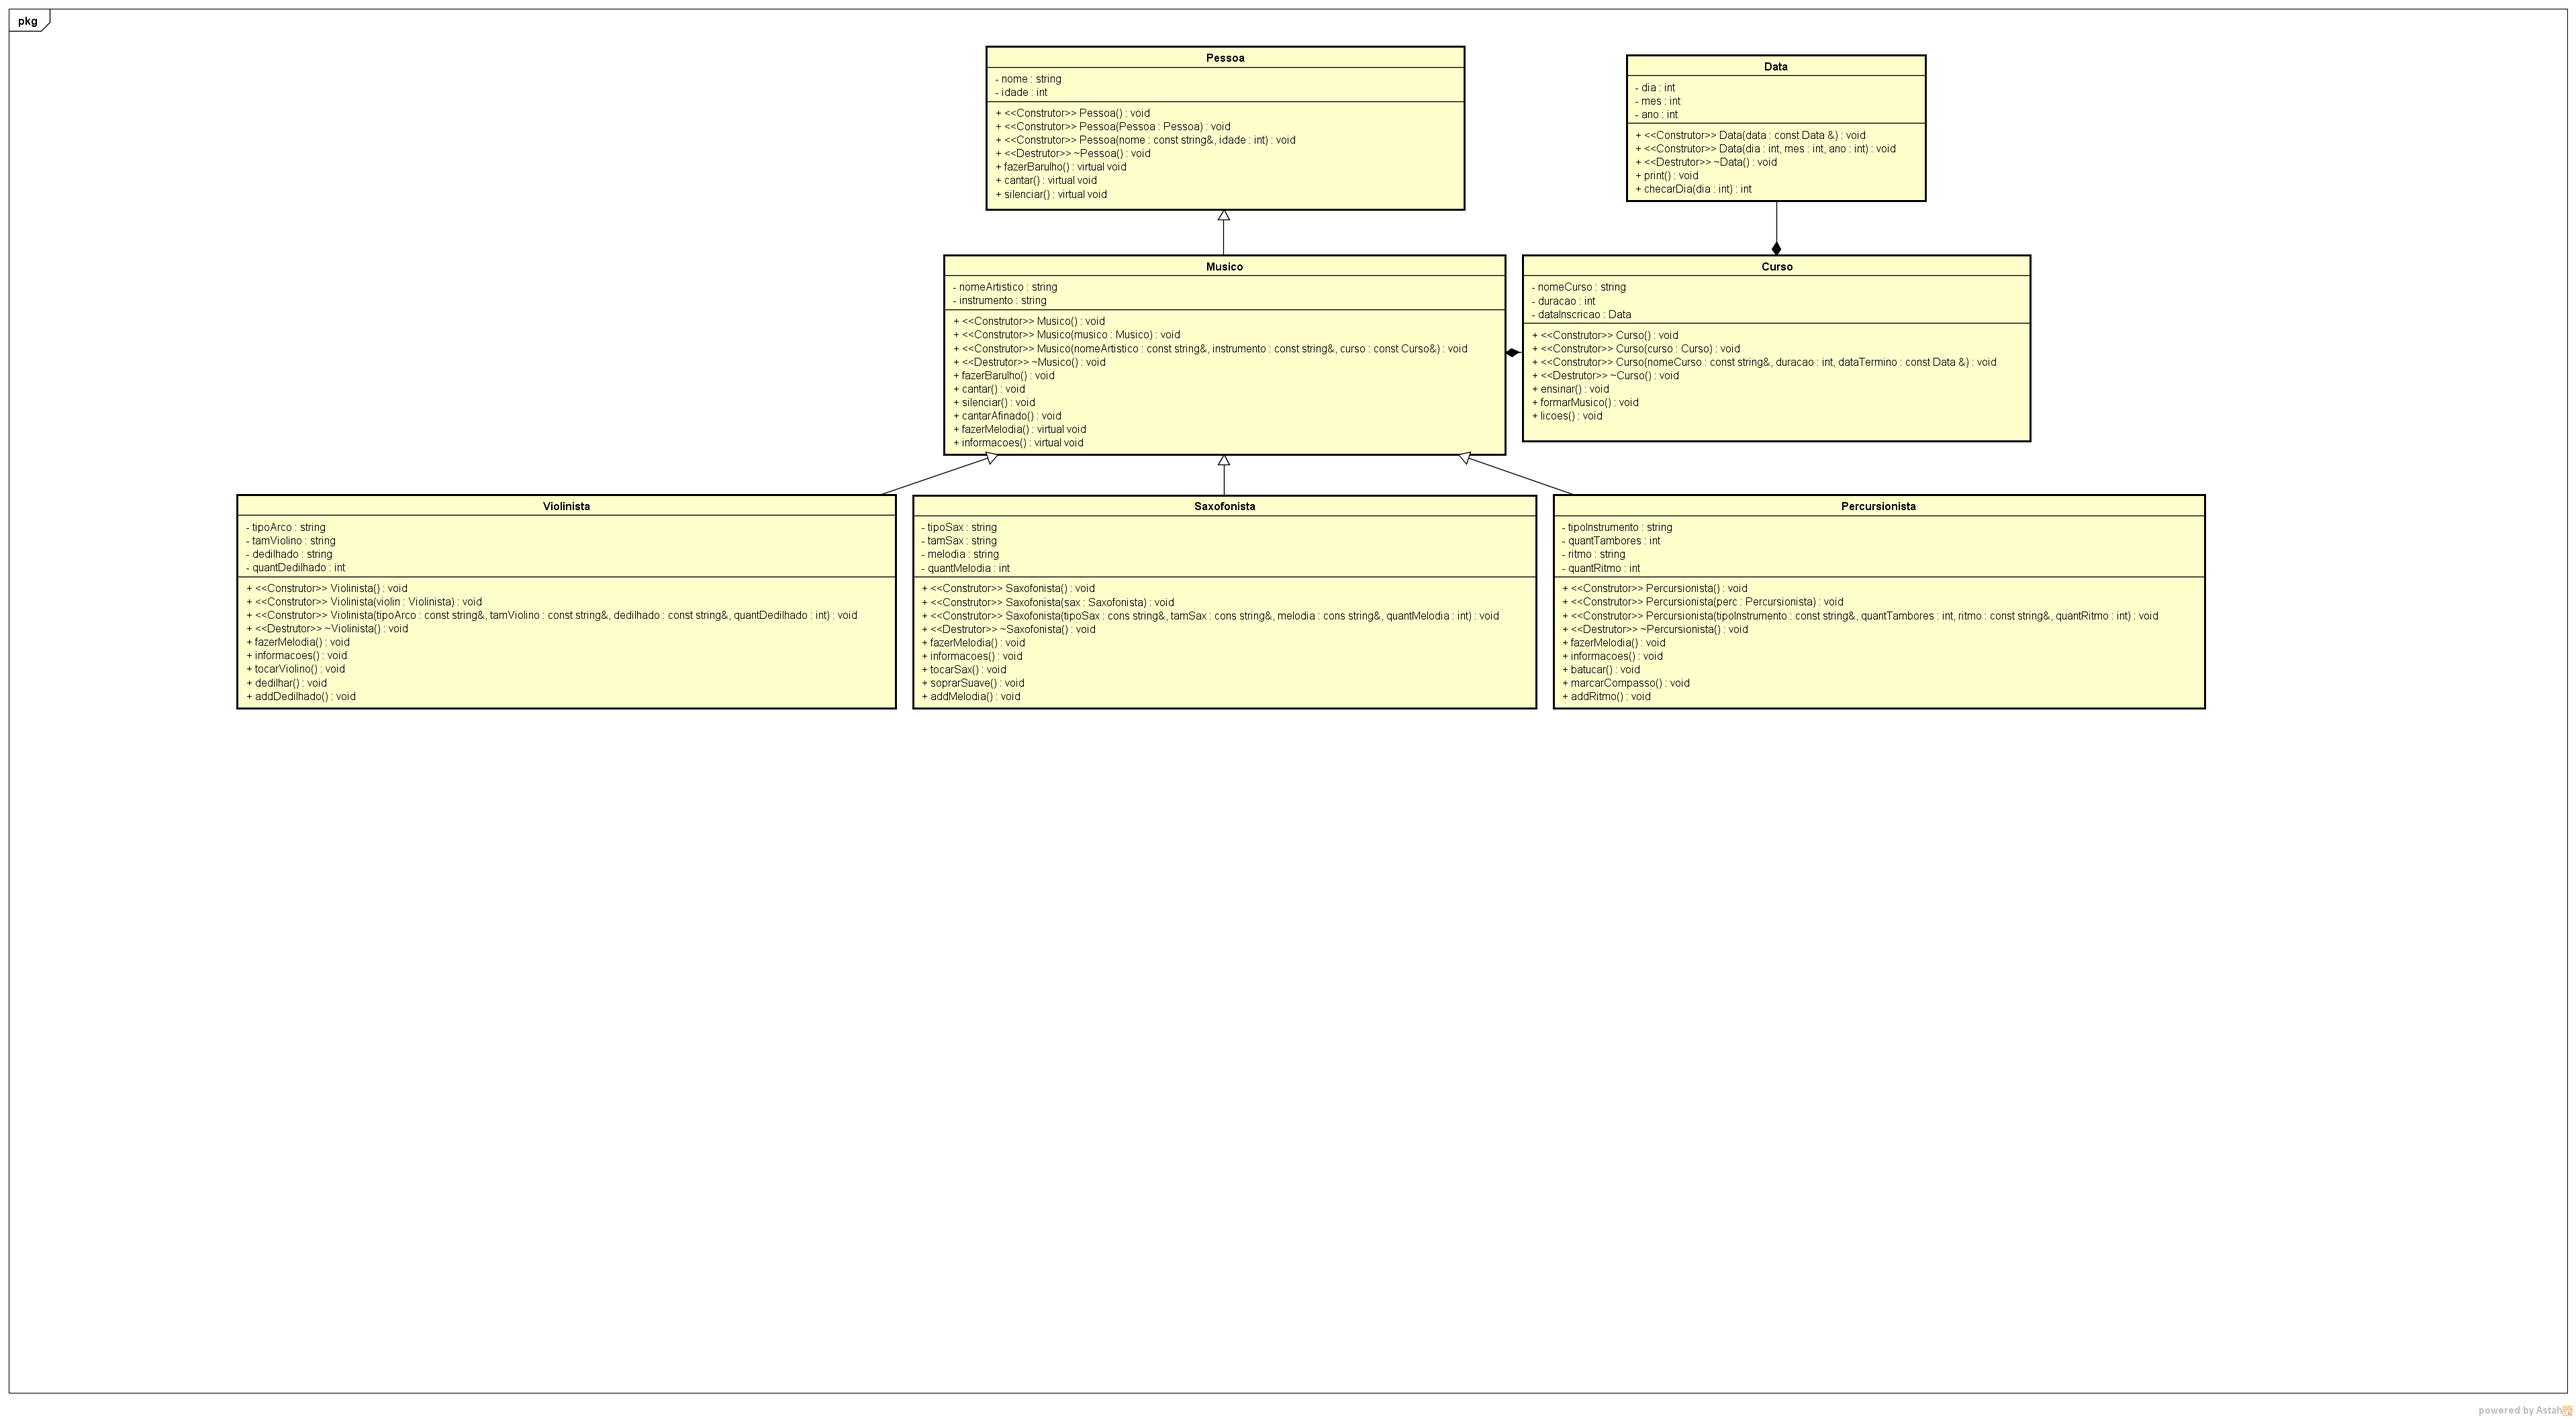
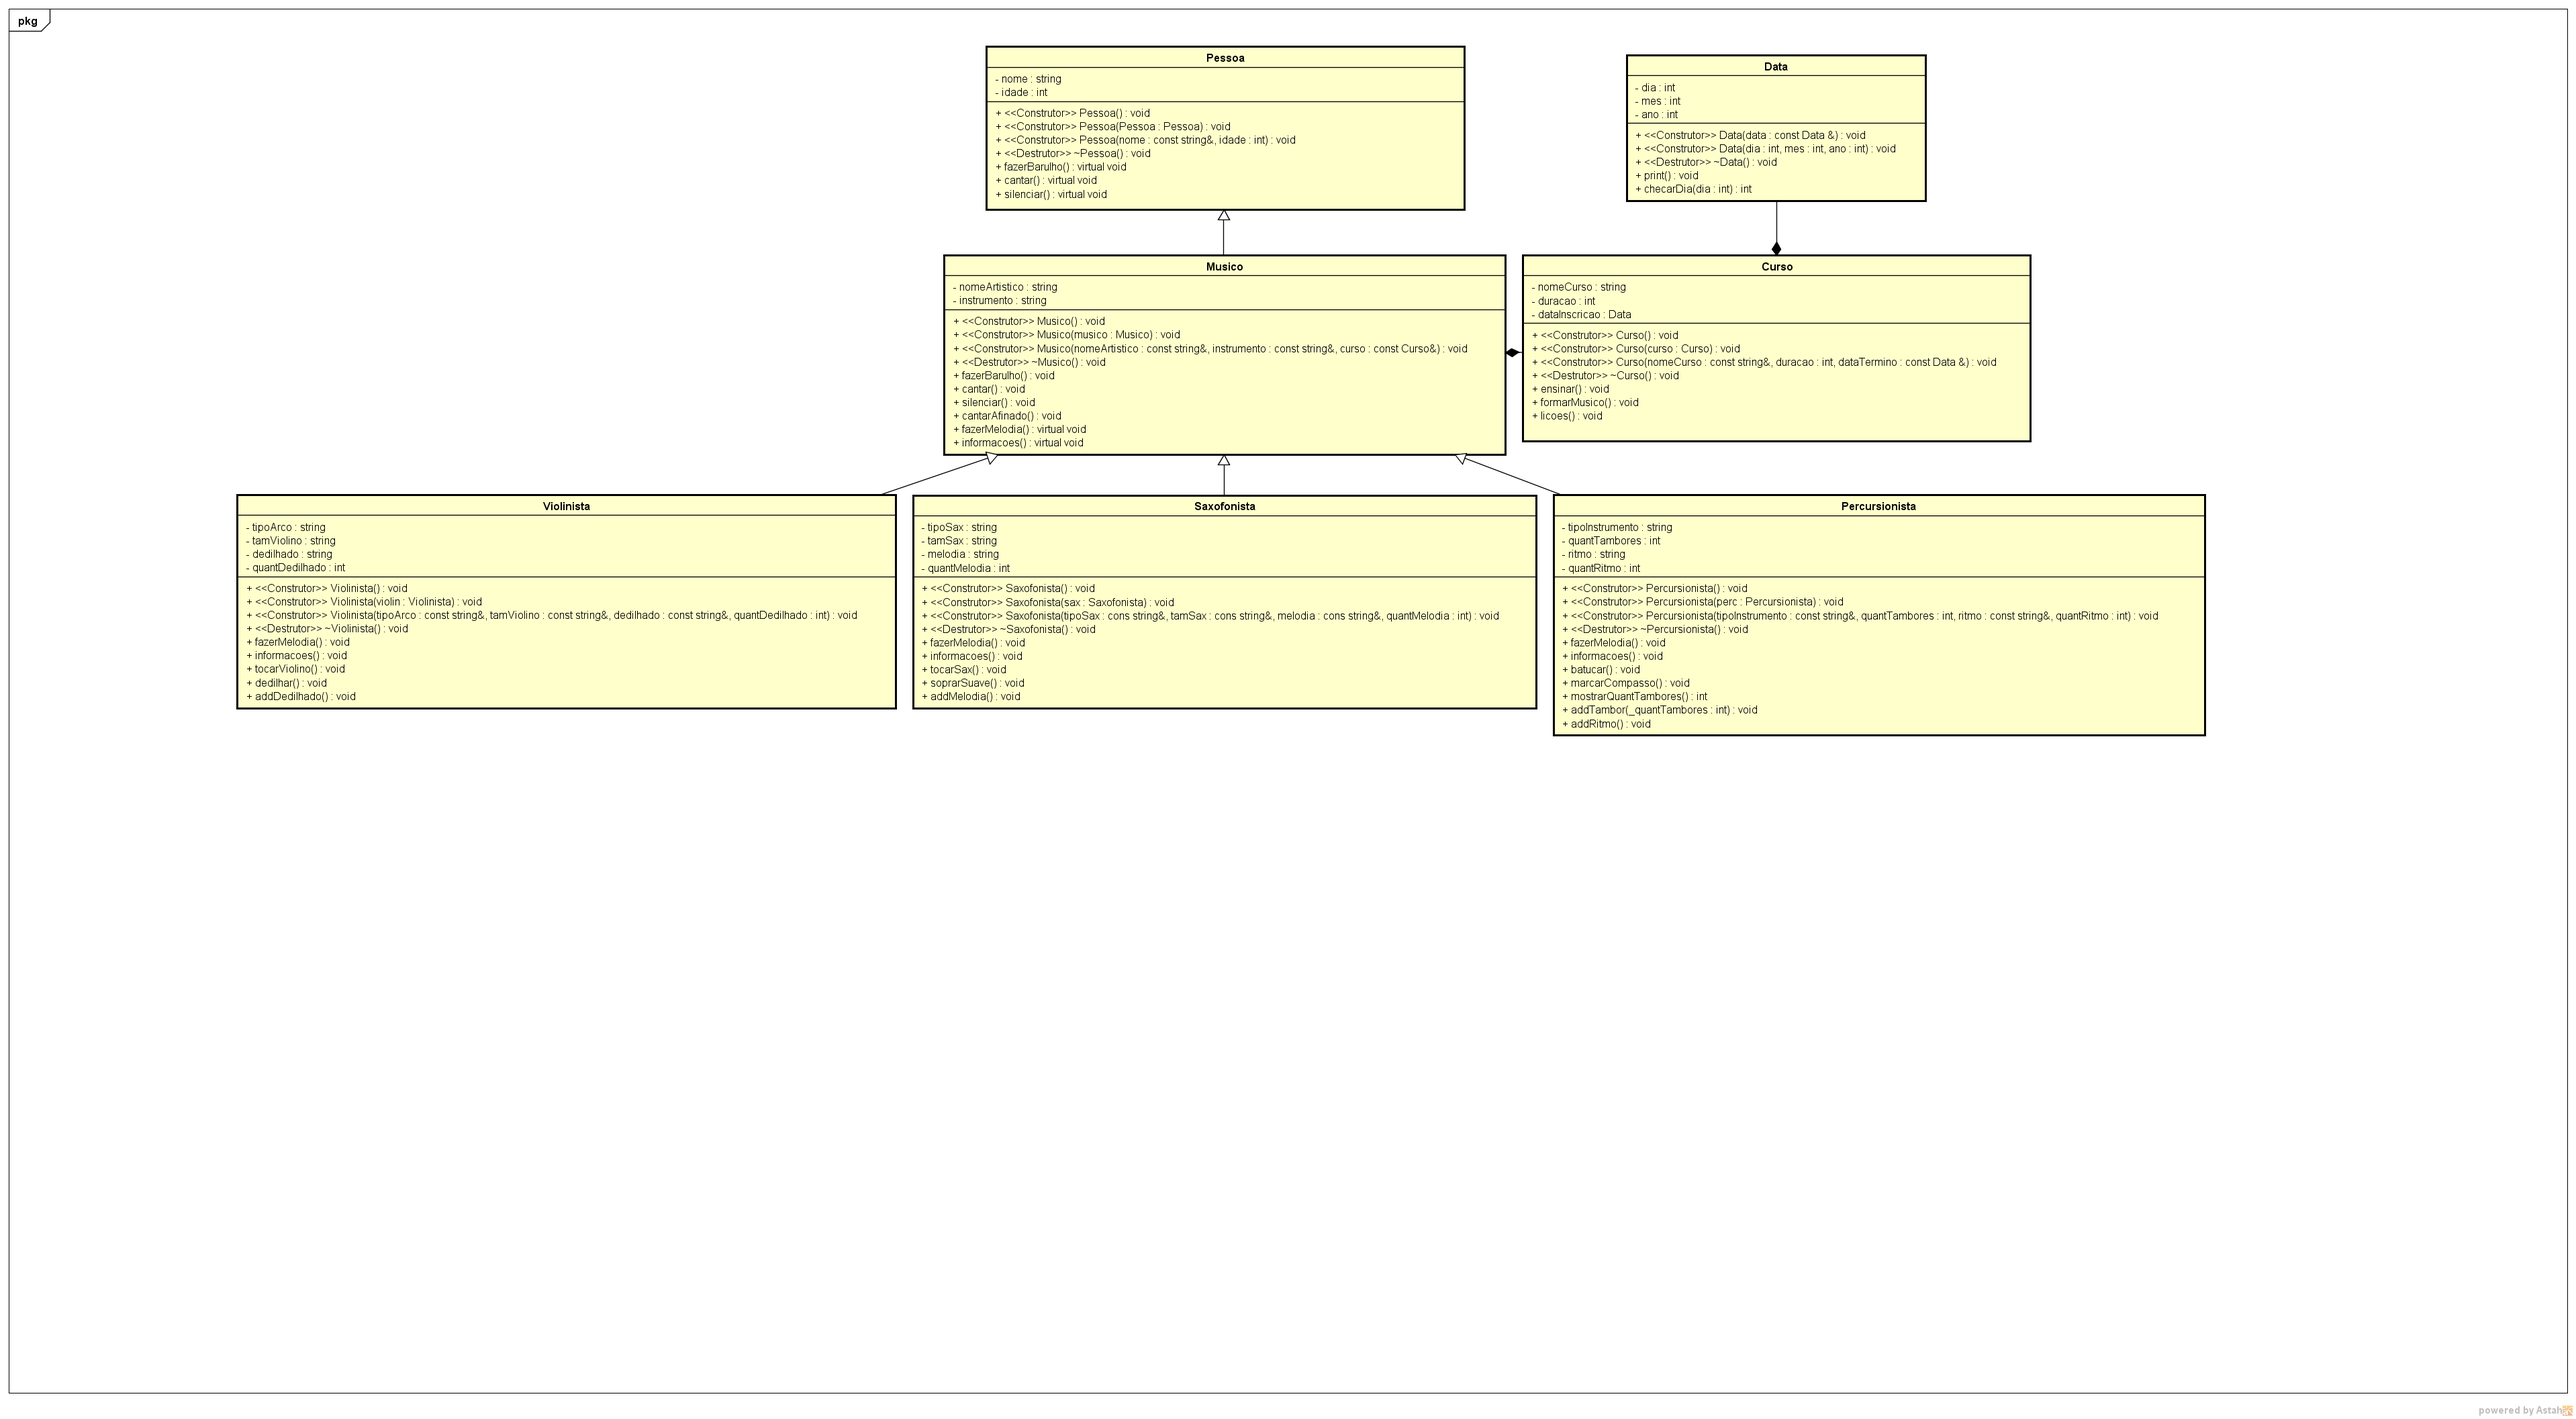
21/03 - 12:49.

Changed region(s): [[0.5893, 0.4683, 0.8684, 0.5307]]

diff --git a/Musico/main.cpp b/Musico/main.cpp
@@ -41,14 +41,14 @@ int main(int argc, char **argv){
 	
 	for (size_t i = 0; i < musicos.size(); i++){
 		
-	/*	Moto *derivedPtr = dynamic_cast<Moto*> (musicos[i]);
+		Percursionista *derivedPtr = dynamic_cast<Percursionista*> (musicos[i]);
         if (derivedPtr != 0){
-			int rotacaoMotor = derivedPtr->mostrarRotacaoMotor();
-			cout << rotacaoMotor << '\n';
-			derivedPtr->aumentarGiro(10 * rotacaoMotor);
-			cout << "Rotacao: " << derivedPtr->mostrarRotacaoMotor() << '\n';                     
+			int quantTambores = derivedPtr->mostrarQuantTambor();
+			cout << quantTambores << '\n';
+			derivedPtr->addTambor(quantTambores + 1);
+			cout << "Quantidade de tambores: " << derivedPtr->mostrarQuantTambor() << '\n';         
 		} 
-	}*/
+	}
 	
 	for (size_t j = 0; j < musicos.size(); j++){
 		cout << "Deletando objetos... " << typeid(*musicos[j]).name() << '\n';

diff --git a/Musico/Percursionista.h b/Musico/Percursionista.h
@@ -15,8 +15,10 @@ public:
 	void informacoes() const;
 	void batucar() const;
 	void marcarCompasso() const;
+	int mostrarQuantTambor();
+	void addTambor(int);
 	void addRitmo(const string &);
-
+	
 	const Percursionista &operator= (const Percursionista &);		//Operador =
 	bool operator== (const Percursionista &) const;					//Operador ==
 	bool operator!= (const Percursionista &perc) const				//Operador !=
